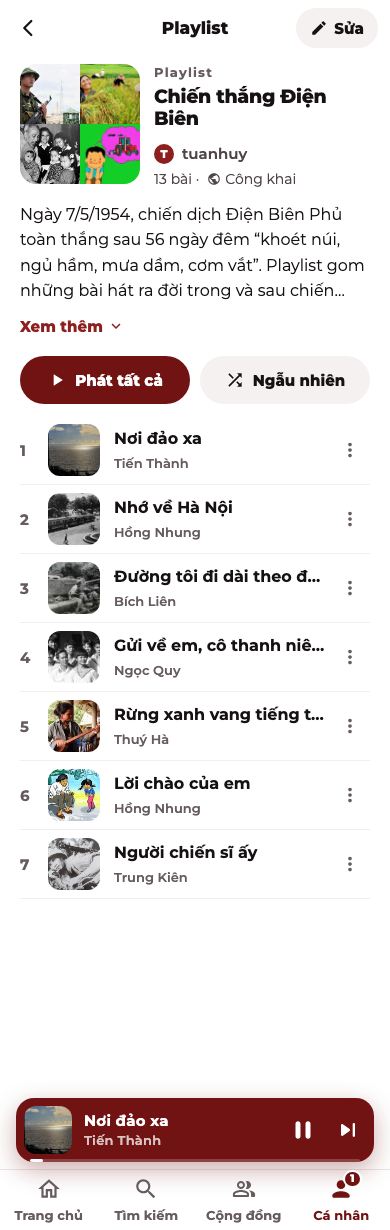
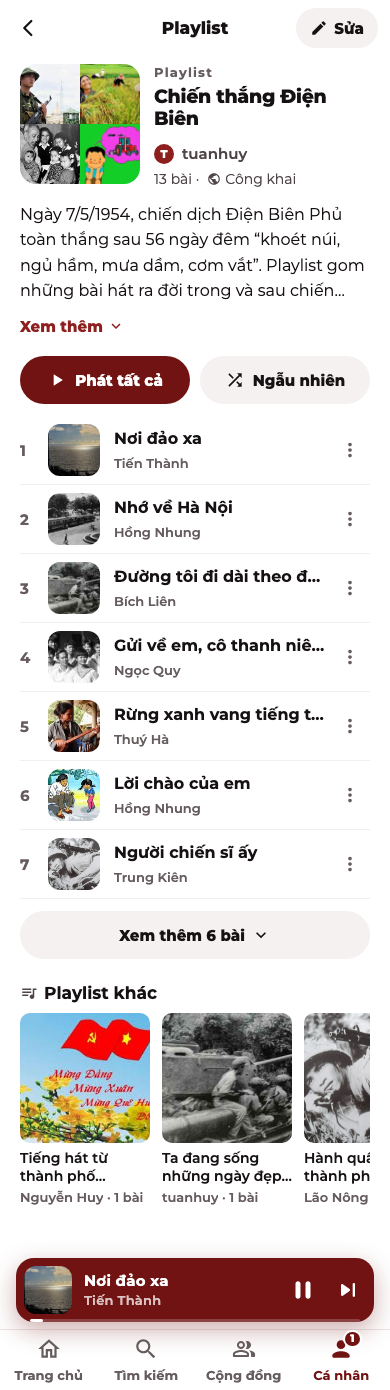
feat(app): playlist dài hiện 20 bài + Xem thêm; Playlist khác ghi chủ playlist
- Trang playlist: 20 bài đầu, nút "Xem thêm N bài" mở thêm 20 bài mỗi lần;
  Phát tất cả vẫn phát cả playlist.
- Playlist khác: dòng "tên chủ · N bài" (tên dài thì cắt).
- Canvas cập nhật theo.

diff --git a/design/canvas/project/Playlist_CuaToi.dc.html b/design/canvas/project/Playlist_CuaToi.dc.html
@@ -14,7 +14,7 @@ body{margin:0}
 a{color:#8E1F1F;text-decoration:none}a:hover{color:#711313}
 </style>
 </helmet>
-<div style="width: 390px; height: 1230px; background: #FFFFFF; font-family: Montserrat, sans-serif; color: #161112; display: flex; flex-direction: column; overflow: hidden">
+<div style="width: 390px; height: 1390px; background: #FFFFFF; font-family: Montserrat, sans-serif; color: #161112; display: flex; flex-direction: column; overflow: hidden">
 <!-- Playlist của chính mình: thêm nút "Sửa" trên thanh tiêu đề (người khác không thấy; BQT có quyền quản lý playlist thì thấy ở mọi playlist). Giới thiệu dài quá 4 dòng thì rút gọn + "Xem thêm" (bấm mở hết, đổi thành "Thu gọn"). Dòng số bài kèm Công khai / Không công khai. ⋮ ở từng bài có thêm "Bỏ khỏi playlist". Bỏ nút "Tải tất cả về máy" (app hiện có) -->
 <div style="height: 56px; flex-shrink: 0; display: flex; align-items: center; position: relative">
 <a href="PlaylistCuaToi.dc.html" aria-label="Quay lại" style="width: 56px; height: 56px; display: flex; align-items: center; justify-content: center; color: #161112"><svg width="20" height="20" viewBox="0 0 24 24" fill="none" stroke="currentColor" stroke-width="2.6" stroke-linecap="round" stroke-linejoin="round" aria-hidden="true"><path d="M16 3.5L7.5 12l8.5 8.5"></path></svg></a>
@@ -27,13 +27,18 @@ a{color:#8E1F1F;text-decoration:none}a:hover{color:#711313}
 <div style="margin-top: 10px; display: flex; gap: 10px"><button style="flex: 1; height: 48px; border-radius: 24px; border: none; background: #711313; color: #FFFFFF; font-family: Montserrat, sans-serif; font-size: 15px; font-weight: 800; display: flex; align-items: center; justify-content: center; gap: 8px"><svg width="20" height="20" viewBox="0 0 24 24" aria-hidden="true"><path fill="currentColor" d="M8 5v14l11-7z"></path></svg>Phát tất cả</button><button style="flex: 1; height: 48px; border-radius: 24px; border: none; background: #F4F1F0; color: #161112; font-family: Montserrat, sans-serif; font-size: 15px; font-weight: 800; display: flex; align-items: center; justify-content: center; gap: 8px"><svg width="20" height="20" viewBox="0 0 24 24" aria-hidden="true"><path fill="currentColor" d="M10.59 9.17L5.41 4 4 5.41l5.17 5.17 1.42-1.41zM14.5 4l2.04 2.04L4 18.59 5.41 20 17.96 7.46 20 9.5V4h-5.5zm.33 9.41l-1.41 1.41 3.13 3.13L14.5 20H20v-5.5l-2.04 2.04-3.13-3.13z"></path></svg>Ngẫu nhiên</button></div>
 <div style="height: 12px"></div>
 <div style="display: flex; align-items: center; min-height: 68px; padding: 8px 0; box-sizing: border-box; border-bottom: 1px solid #F3EEEE"><span style="width: 28px; flex-shrink: 0; font-size: 15px; font-weight: 700; color: #665C5E">1</span><a href="BaiHat.dc.html" style="flex: 1; min-width: 0; display: flex; align-items: center; color: #161112"><img src="/_blob/15d021a625e44f0e9ff37aae395a5ec2" alt="" style="width: 52px; height: 52px; border-radius: 12px; object-fit: cover; flex-shrink: 0; display: block"><span style="flex: 1; min-width: 0; margin-left: 14px; display: flex; flex-direction: column; gap: 6px"><span style="font-size: 16px; font-weight: 700; line-height: 1.25; white-space: nowrap; overflow: hidden; text-overflow: ellipsis">Nơi đảo xa</span><span style="font-size: 13px; font-weight: 600; line-height: 1.25; color: #665C5E; white-space: nowrap; overflow: hidden; text-overflow: ellipsis">Tiến Thành</span></span></a><button aria-label="Tuỳ chọn cho Nơi đảo xa" style="width: 40px; height: 40px; flex-shrink: 0; border: none; background: transparent; padding: 0; display: flex; align-items: center; justify-content: center; color: #665C5E"><svg width="22" height="22" viewBox="0 0 24 24" aria-hidden="true"><path fill="currentColor" d="M12 8c1.1 0 2-.9 2-2s-.9-2-2-2-2 .9-2 2 .9 2 2 2zm0 2c-1.1 0-2 .9-2 2s.9 2 2 2 2-.9 2-2-.9-2-2-2zm0 6c-1.1 0-2 .9-2 2s.9 2 2 2 2-.9 2-2-.9-2-2-2z"></path></svg></button></div><div style="display: flex; align-items: center; min-height: 68px; padding: 8px 0; box-sizing: border-box; border-bottom: 1px solid #F3EEEE"><span style="width: 28px; flex-shrink: 0; font-size: 15px; font-weight: 700; color: #665C5E">2</span><a href="BaiHat.dc.html" style="flex: 1; min-width: 0; display: flex; align-items: center; color: #161112"><img src="/_blob/1c5dda211792aea9143139f889d99c6c" alt="" style="width: 52px; height: 52px; border-radius: 12px; object-fit: cover; flex-shrink: 0; display: block"><span style="flex: 1; min-width: 0; margin-left: 14px; display: flex; flex-direction: column; gap: 6px"><span style="font-size: 16px; font-weight: 700; line-height: 1.25; white-space: nowrap; overflow: hidden; text-overflow: ellipsis">Nhớ về Hà Nội</span><span style="font-size: 13px; font-weight: 600; line-height: 1.25; color: #665C5E; white-space: nowrap; overflow: hidden; text-overflow: ellipsis">Hồng Nhung</span></span></a><button aria-label="Tuỳ chọn cho Nhớ về Hà Nội" style="width: 40px; height: 40px; flex-shrink: 0; border: none; background: transparent; padding: 0; display: flex; align-items: center; justify-content: center; color: #665C5E"><svg width="22" height="22" viewBox="0 0 24 24" aria-hidden="true"><path fill="currentColor" d="M12 8c1.1 0 2-.9 2-2s-.9-2-2-2-2 .9-2 2 .9 2 2 2zm0 2c-1.1 0-2 .9-2 2s.9 2 2 2 2-.9 2-2-.9-2-2-2zm0 6c-1.1 0-2 .9-2 2s.9 2 2 2 2-.9 2-2-.9-2-2-2z"></path></svg></button></div><div style="display: flex; align-items: center; min-height: 68px; padding: 8px 0; box-sizing: border-box; border-bottom: 1px solid #F3EEEE"><span style="width: 28px; flex-shrink: 0; font-size: 15px; font-weight: 700; color: #665C5E">3</span><a href="BaiHat.dc.html" style="flex: 1; min-width: 0; display: flex; align-items: center; color: #161112"><img src="/_blob/f222b661580510c678d788ff90f68dbb" alt="" style="width: 52px; height: 52px; border-radius: 12px; object-fit: cover; flex-shrink: 0; display: block"><span style="flex: 1; min-width: 0; margin-left: 14px; display: flex; flex-direction: column; gap: 6px"><span style="font-size: 16px; font-weight: 700; line-height: 1.25; white-space: nowrap; overflow: hidden; text-overflow: ellipsis">Đường tôi đi dài theo đất nước</span><span style="font-size: 13px; font-weight: 600; line-height: 1.25; color: #665C5E; white-space: nowrap; overflow: hidden; text-overflow: ellipsis">Bích Liên</span></span></a><button aria-label="Tuỳ chọn cho Đường tôi đi dài theo đất nước" style="width: 40px; height: 40px; flex-shrink: 0; border: none; background: transparent; padding: 0; display: flex; align-items: center; justify-content: center; color: #665C5E"><svg width="22" height="22" viewBox="0 0 24 24" aria-hidden="true"><path fill="currentColor" d="M12 8c1.1 0 2-.9 2-2s-.9-2-2-2-2 .9-2 2 .9 2 2 2zm0 2c-1.1 0-2 .9-2 2s.9 2 2 2 2-.9 2-2-.9-2-2-2zm0 6c-1.1 0-2 .9-2 2s.9 2 2 2 2-.9 2-2-.9-2-2-2z"></path></svg></button></div><div style="display: flex; align-items: center; min-height: 68px; padding: 8px 0; box-sizing: border-box; border-bottom: 1px solid #F3EEEE"><span style="width: 28px; flex-shrink: 0; font-size: 15px; font-weight: 700; color: #665C5E">4</span><a href="BaiHat.dc.html" style="flex: 1; min-width: 0; display: flex; align-items: center; color: #161112"><img src="/_blob/0a4457564aa3b6ba9b1f0d4937deee1c" alt="" style="width: 52px; height: 52px; border-radius: 12px; object-fit: cover; flex-shrink: 0; display: block"><span style="flex: 1; min-width: 0; margin-left: 14px; display: flex; flex-direction: column; gap: 6px"><span style="font-size: 16px; font-weight: 700; line-height: 1.25; white-space: nowrap; overflow: hidden; text-overflow: ellipsis">Gửi về em, cô thanh niên xung phong</span><span style="font-size: 13px; font-weight: 600; line-height: 1.25; color: #665C5E; white-space: nowrap; overflow: hidden; text-overflow: ellipsis">Ngọc Quy</span></span></a><button aria-label="Tuỳ chọn cho Gửi về em, cô thanh niên xung phong" style="width: 40px; height: 40px; flex-shrink: 0; border: none; background: transparent; padding: 0; display: flex; align-items: center; justify-content: center; color: #665C5E"><svg width="22" height="22" viewBox="0 0 24 24" aria-hidden="true"><path fill="currentColor" d="M12 8c1.1 0 2-.9 2-2s-.9-2-2-2-2 .9-2 2 .9 2 2 2zm0 2c-1.1 0-2 .9-2 2s.9 2 2 2 2-.9 2-2-.9-2-2-2zm0 6c-1.1 0-2 .9-2 2s.9 2 2 2 2-.9 2-2-.9-2-2-2z"></path></svg></button></div><div style="display: flex; align-items: center; min-height: 68px; padding: 8px 0; box-sizing: border-box; border-bottom: 1px solid #F3EEEE"><span style="width: 28px; flex-shrink: 0; font-size: 15px; font-weight: 700; color: #665C5E">5</span><a href="BaiHat.dc.html" style="flex: 1; min-width: 0; display: flex; align-items: center; color: #161112"><img src="/_blob/eff02e07bb09eaa1645c9c7b7b91eb61" alt="" style="width: 52px; height: 52px; border-radius: 12px; object-fit: cover; flex-shrink: 0; display: block"><span style="flex: 1; min-width: 0; margin-left: 14px; display: flex; flex-direction: column; gap: 6px"><span style="font-size: 16px; font-weight: 700; line-height: 1.25; white-space: nowrap; overflow: hidden; text-overflow: ellipsis">Rừng xanh vang tiếng ta lư</span><span style="font-size: 13px; font-weight: 600; line-height: 1.25; color: #665C5E; white-space: nowrap; overflow: hidden; text-overflow: ellipsis">Thuý Hà</span></span></a><button aria-label="Tuỳ chọn cho Rừng xanh vang tiếng ta lư" style="width: 40px; height: 40px; flex-shrink: 0; border: none; background: transparent; padding: 0; display: flex; align-items: center; justify-content: center; color: #665C5E"><svg width="22" height="22" viewBox="0 0 24 24" aria-hidden="true"><path fill="currentColor" d="M12 8c1.1 0 2-.9 2-2s-.9-2-2-2-2 .9-2 2 .9 2 2 2zm0 2c-1.1 0-2 .9-2 2s.9 2 2 2 2-.9 2-2-.9-2-2-2zm0 6c-1.1 0-2 .9-2 2s.9 2 2 2 2-.9 2-2-.9-2-2-2z"></path></svg></button></div><div style="display: flex; align-items: center; min-height: 68px; padding: 8px 0; box-sizing: border-box; border-bottom: 1px solid #F3EEEE"><span style="width: 28px; flex-shrink: 0; font-size: 15px; font-weight: 700; color: #665C5E">6</span><a href="BaiHat.dc.html" style="flex: 1; min-width: 0; display: flex; align-items: center; color: #161112"><img src="/_blob/d89999802612c9b1d0f6b1f73f6a34d9" alt="" style="width: 52px; height: 52px; border-radius: 12px; object-fit: cover; flex-shrink: 0; display: block"><span style="flex: 1; min-width: 0; margin-left: 14px; display: flex; flex-direction: column; gap: 6px"><span style="font-size: 16px; font-weight: 700; line-height: 1.25; white-space: nowrap; overflow: hidden; text-overflow: ellipsis">Lời chào của em</span><span style="font-size: 13px; font-weight: 600; line-height: 1.25; color: #665C5E; white-space: nowrap; overflow: hidden; text-overflow: ellipsis">Hồng Nhung</span></span></a><button aria-label="Tuỳ chọn cho Lời chào của em" style="width: 40px; height: 40px; flex-shrink: 0; border: none; background: transparent; padding: 0; display: flex; align-items: center; justify-content: center; color: #665C5E"><svg width="22" height="22" viewBox="0 0 24 24" aria-hidden="true"><path fill="currentColor" d="M12 8c1.1 0 2-.9 2-2s-.9-2-2-2-2 .9-2 2 .9 2 2 2zm0 2c-1.1 0-2 .9-2 2s.9 2 2 2 2-.9 2-2-.9-2-2-2zm0 6c-1.1 0-2 .9-2 2s.9 2 2 2 2-.9 2-2-.9-2-2-2z"></path></svg></button></div><div style="display: flex; align-items: center; min-height: 68px; padding: 8px 0; box-sizing: border-box; border-bottom: 1px solid #F3EEEE"><span style="width: 28px; flex-shrink: 0; font-size: 15px; font-weight: 700; color: #665C5E">7</span><a href="BaiHat.dc.html" style="flex: 1; min-width: 0; display: flex; align-items: center; color: #161112"><img src="/_blob/0904ef3447178bd511c2ef56eb999eb5" alt="" style="width: 52px; height: 52px; border-radius: 12px; object-fit: cover; flex-shrink: 0; display: block"><span style="flex: 1; min-width: 0; margin-left: 14px; display: flex; flex-direction: column; gap: 6px"><span style="font-size: 16px; font-weight: 700; line-height: 1.25; white-space: nowrap; overflow: hidden; text-overflow: ellipsis">Người chiến sĩ ấy</span><span style="font-size: 13px; font-weight: 600; line-height: 1.25; color: #665C5E; white-space: nowrap; overflow: hidden; text-overflow: ellipsis">Trung Kiên</span></span></a><button aria-label="Tuỳ chọn cho Người chiến sĩ ấy" style="width: 40px; height: 40px; flex-shrink: 0; border: none; background: transparent; padding: 0; display: flex; align-items: center; justify-content: center; color: #665C5E"><svg width="22" height="22" viewBox="0 0 24 24" aria-hidden="true"><path fill="currentColor" d="M12 8c1.1 0 2-.9 2-2s-.9-2-2-2-2 .9-2 2 .9 2 2 2zm0 2c-1.1 0-2 .9-2 2s.9 2 2 2 2-.9 2-2-.9-2-2-2zm0 6c-1.1 0-2 .9-2 2s.9 2 2 2 2-.9 2-2-.9-2-2-2z"></path></svg></button></div>
+<!-- Danh sách dài: hiện 20 bài đầu (canvas vẽ gọn 7); còn nữa thì nút "Xem thêm N bài" mở thêm 20 bài mỗi lần. Phát tất cả / Ngẫu nhiên vẫn phát cả playlist -->
+<button style="margin-top: 12px; height: 48px; border-radius: 24px; border: none; background: #F4F1F0; font-family: Montserrat, sans-serif; font-size: 15px; font-weight: 800; color: #161112; display: flex; align-items: center; justify-content: center; gap: 6px">Xem thêm 6 bài<svg width="20" height="20" viewBox="0 0 24 24" aria-hidden="true"><path fill="currentColor" d="M7.41 8.59L12 13.17l4.59-4.58L18 10l-6 6-6-6z"></path></svg></button>
+<!-- Playlist khác: dòng dưới tên playlist = tên chủ playlist · số bài (tên dài thì cắt, số bài luôn hiện) -->
+<div style="margin-top: 24px; display: flex; align-items: center; gap: 6px"><svg width="18" height="18" viewBox="0 0 24 24" aria-hidden="true"><path fill="#4F4547" d="M15 6H3v2h12V6zm0 4H3v2h12v-2zM3 16h8v-2H3v2zM17 6v8.18c-.31-.11-.65-.18-1-.18-1.66 0-3 1.34-3 3s1.34 3 3 3 3-1.34 3-3V8h3V6h-5z"></path></svg><h2 style="margin: 0; font-size: 17px; font-weight: 700">Playlist khác</h2></div>
+<div style="margin-top: 10px; display: flex; gap: 12px; overflow: hidden"><a href="Playlist_CuaToi.dc.html" style="width: 130px; flex-shrink: 0; display: flex; flex-direction: column; color: #161112"><img src="/_blob/bb3b0f0da1d0e24961fccd46653d78fd" alt="" style="width: 130px; height: 130px; border-radius: 10px; object-fit: cover; flex-shrink: 0; display: block"><span style="margin-top: 6px; font-size: 14px; font-weight: 600; line-height: 1.3; display: -webkit-box; -webkit-line-clamp: 2; -webkit-box-orient: vertical; overflow: hidden">Tiếng hát từ thành phố mang tên Người</span><span style="margin-top: 4px; display: flex; min-width: 0; font-size: 13px; font-weight: 600; color: #665C5E; white-space: nowrap"><span style="overflow: hidden; text-overflow: ellipsis">Nguyễn Huy</span><span style="flex-shrink: 0">&nbsp;· 1 bài</span></span></a><a href="Playlist_CuaToi.dc.html" style="width: 130px; flex-shrink: 0; display: flex; flex-direction: column; color: #161112"><img src="/_blob/f222b661580510c678d788ff90f68dbb" alt="" style="width: 130px; height: 130px; border-radius: 10px; object-fit: cover; flex-shrink: 0; display: block"><span style="margin-top: 6px; font-size: 14px; font-weight: 600; line-height: 1.3; display: -webkit-box; -webkit-line-clamp: 2; -webkit-box-orient: vertical; overflow: hidden">Ta đang sống những ngày đẹp nhất</span><span style="margin-top: 4px; display: flex; min-width: 0; font-size: 13px; font-weight: 600; color: #665C5E; white-space: nowrap"><span style="overflow: hidden; text-overflow: ellipsis">tuanhuy</span><span style="flex-shrink: 0">&nbsp;· 1 bài</span></span></a><a href="Playlist_CuaToi.dc.html" style="width: 130px; flex-shrink: 0; display: flex; flex-direction: column; color: #161112"><img src="/_blob/0904ef3447178bd511c2ef56eb999eb5" alt="" style="width: 130px; height: 130px; border-radius: 10px; object-fit: cover; flex-shrink: 0; display: block"><span style="margin-top: 6px; font-size: 14px; font-weight: 600; line-height: 1.3; display: -webkit-box; -webkit-line-clamp: 2; -webkit-box-orient: vertical; overflow: hidden">Hành quân về thành phố</span><span style="margin-top: 4px; display: flex; min-width: 0; font-size: 13px; font-weight: 600; color: #665C5E; white-space: nowrap"><span style="overflow: hidden; text-overflow: ellipsis">Lão Nông</span><span style="flex-shrink: 0">&nbsp;· 1 bài</span></span></a></div>
 </div>
 <div style="flex: 1"></div>
 <dc-import name="MiniPlayer" hint-size="390px,78px"></dc-import>
 <dc-import name="TabBar" active="me" hint-size="390px,61px"></dc-import>
 </div>
 </x-dc>
-<script type="text/x-dc" data-dc-script data-props='{"$preview":{"width":390,"height":1230}}'>
+<script type="text/x-dc" data-dc-script data-props='{"$preview":{"width":390,"height":1390}}'>
 class Component extends DCLogic {
 renderVals() {
 return {};

diff --git a/lib/screens/playlist_detail_screen.dart b/lib/screens/playlist_detail_screen.dart
@@ -36,6 +36,8 @@ class _PlaylistDetailScreenState extends State<PlaylistDetailScreen> {
   /// Real number of songs in the playlist (the list itself is capped at 200).
   int _itemTotal = 0;
   bool _descOpen = false;
+  /// Long playlists show 20 songs, then 20 more per "Xem thêm".
+  int _shown = 20;
 
   @override
   void initState() {
@@ -107,7 +109,7 @@ class _PlaylistDetailScreenState extends State<PlaylistDetailScreen> {
       };
       final data = await ApiClient.query(r'''query($where: WhereConditions) {
         playlists(first: 8, orderBy: [{column: "id", order: DESC}], where: $where) {
-          data { id slug title event_date thumbnail { url } items(first: 1) { paginatorInfo { total } } }
+          data { id slug title event_date thumbnail { url } user { username } items(first: 1) { paginatorInfo { total } } }
         }
       }''', {'where': where});
       final list = ((data['playlists']?['data'] ?? []) as List).map((e) => Map<String, dynamic>.from(e as Map)).toList();
@@ -117,6 +119,8 @@ class _PlaylistDetailScreenState extends State<PlaylistDetailScreen> {
   }
 
   /// The owner, or BQT (manage_playlist), may change the playlist.
+  int get _visible => _shown < _items.length ? _shown : _items.length;
+
   bool _canEdit(Map<String, dynamic> pl) {
     final auth = context.watch<AuthProvider>();
     final me = auth.user?['id']?.toString();
@@ -357,6 +361,20 @@ class _PlaylistDetailScreenState extends State<PlaylistDetailScreen> {
                 padding: const EdgeInsets.symmetric(horizontal: 20),
                 sliver: SliverList(delegate: SliverChildBuilderDelegate(
                   (ctx, i) {
+                    if (i == _visible) {
+                      final more = _items.length - _visible;
+                      return Padding(
+                        padding: const EdgeInsets.only(top: 12),
+                        child: TextButton(
+                          style: TextButton.styleFrom(backgroundColor: AppColors.surface, foregroundColor: AppColors.text, minimumSize: const Size.fromHeight(48), shape: const StadiumBorder()),
+                          onPressed: () => setState(() => _shown += 20),
+                          child: Row(mainAxisSize: MainAxisSize.min, children: [
+                            Text('Xem thêm ${more > 20 ? '20' : '$more'} bài', style: body(const TextStyle(fontSize: 15, fontWeight: FontWeight.w800))),
+                            const Icon(Icons.keyboard_arrow_down_rounded, size: 20),
+                          ]),
+                        ),
+                      );
+                    }
                     final song = _items[i];
                     return SongRow(
                       song: song,
@@ -366,7 +384,7 @@ class _PlaylistDetailScreenState extends State<PlaylistDetailScreen> {
                       onRemove: canEdit && song['_itemId'] != null ? () => _remove(song) : null,
                     );
                   },
-                  childCount: _items.length,
+                  childCount: _visible + (_visible < _items.length ? 1 : 0),
                 )),
               ),
             SliverPadding(
@@ -476,8 +494,8 @@ class _RelatedCardCompact extends StatelessWidget {
                 const SizedBox(height: 3),
                 if (ev != null && ev.toString().isNotEmpty)
                   Text(formatEventDate(ev), style: body(TextStyle(fontSize: 14, fontWeight: FontWeight.w600, color: AppColors.accentLight)))
-                else if (total > 0)
-                  Text('$total bài', style: body(TextStyle(fontSize: 14, color: AppColors.textSecondary))),
+                else
+                  _OwnerLine(owner: item['user']?['username']?.toString(), total: total, size: 14),
               ],
             ),
           ),
@@ -521,8 +539,8 @@ class _RelatedCard extends StatelessWidget {
             const SizedBox(height: 2),
             if (ev != null && ev.toString().isNotEmpty)
               Text(formatEventDate(ev), maxLines: 1, style: body(TextStyle(fontSize: 13, fontWeight: FontWeight.w600, color: AppColors.accentLight)))
-            else if (total > 0)
-              Text('$total bài', maxLines: 1, style: body(TextStyle(fontSize: 13, color: AppColors.textSecondary))),
+            else
+              _OwnerLine(owner: item['user']?['username']?.toString(), total: total, size: 13),
           ],
         ),
       ),
@@ -570,5 +588,26 @@ class _Clamped extends StatelessWidget {
         ),
       ]),
     );
+  }
+}
+
+/// "Nguyễn Huy · 3 bài" under a related playlist: a long name is cut, the
+/// count always shows.
+class _OwnerLine extends StatelessWidget {
+  final String? owner;
+  final dynamic total;
+  final double size;
+  const _OwnerLine({this.owner, this.total, required this.size});
+
+  @override
+  Widget build(BuildContext context) {
+    final st = body(TextStyle(fontSize: size, fontWeight: FontWeight.w600, color: AppColors.textMuted));
+    final n = total is int ? total as int : 0;
+    final count = n > 0 ? '$n bài' : '';
+    if (owner == null || owner!.isEmpty) return Text(count, maxLines: 1, style: st);
+    return Row(children: [
+      Flexible(child: Text(owner!, maxLines: 1, overflow: TextOverflow.ellipsis, style: st)),
+      if (count.isNotEmpty) Text(' · $count', maxLines: 1, softWrap: false, style: st),
+    ]);
   }
 }
